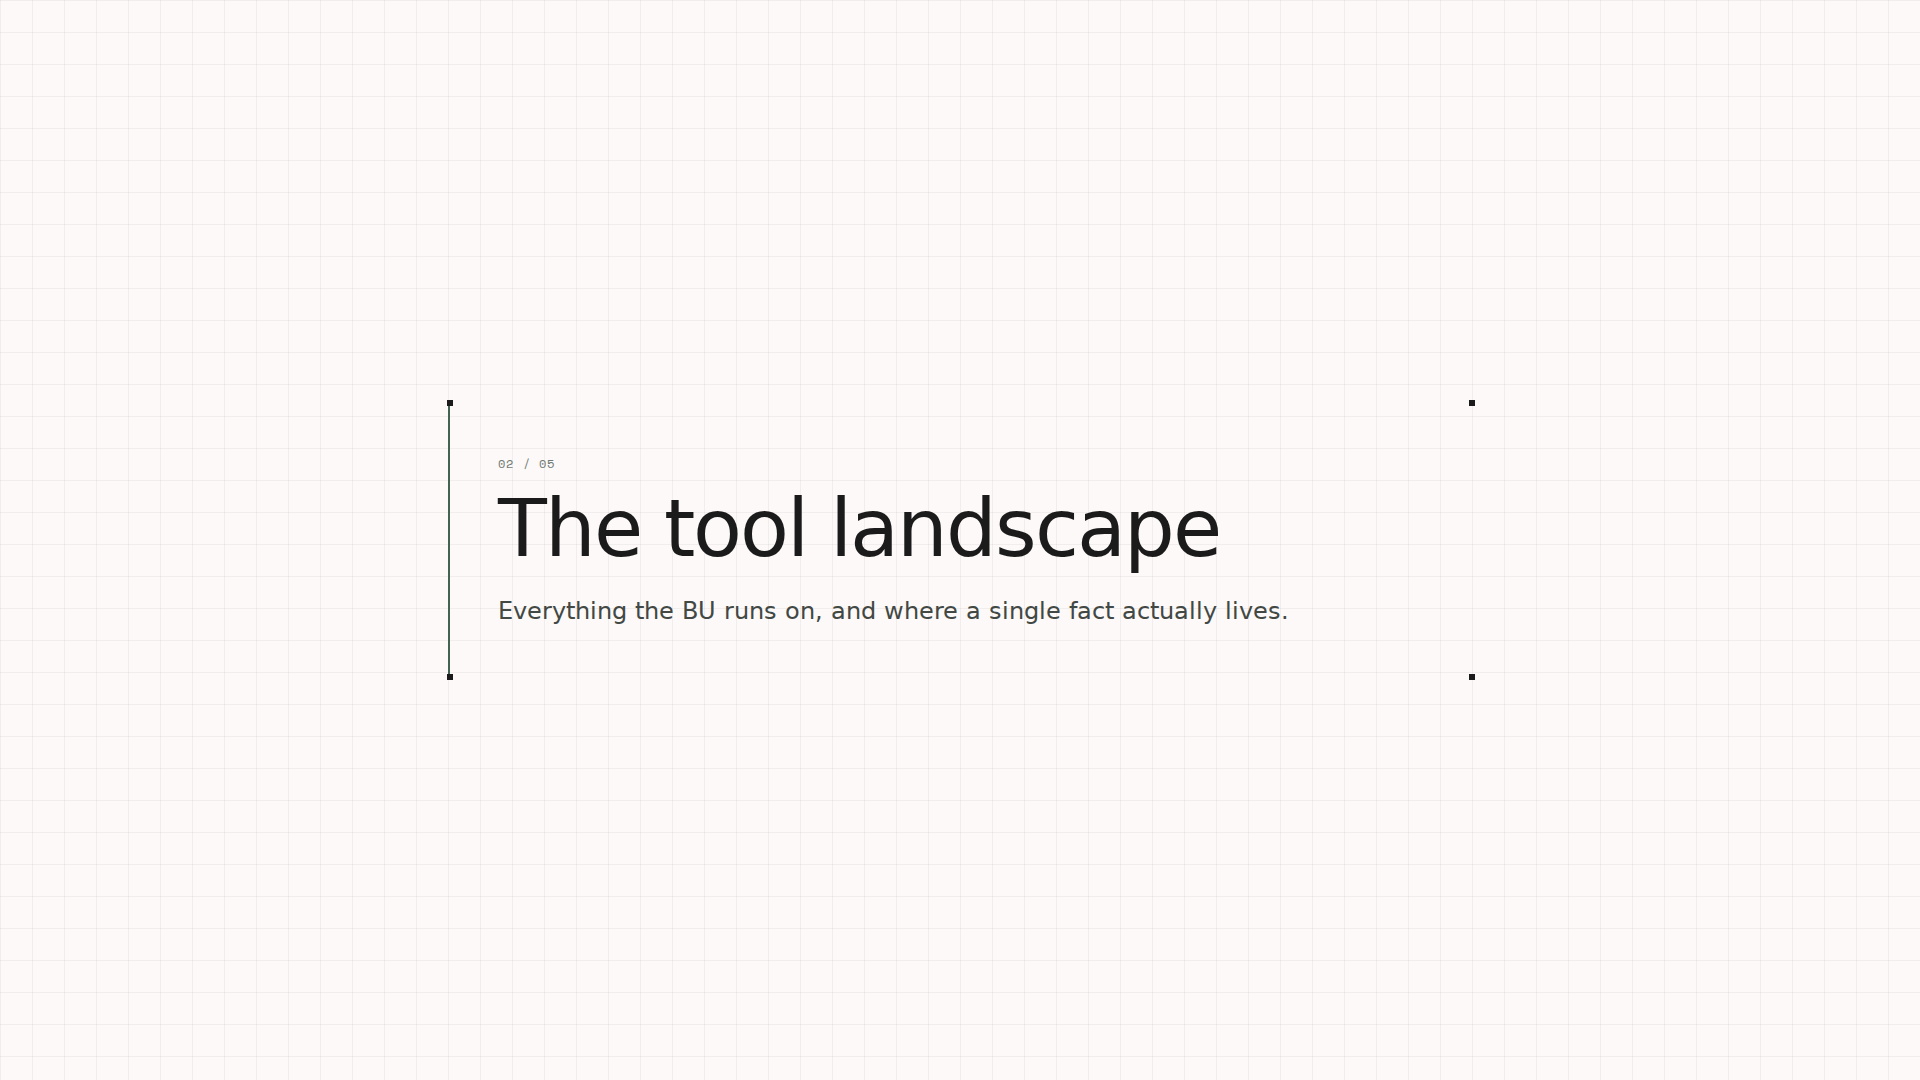
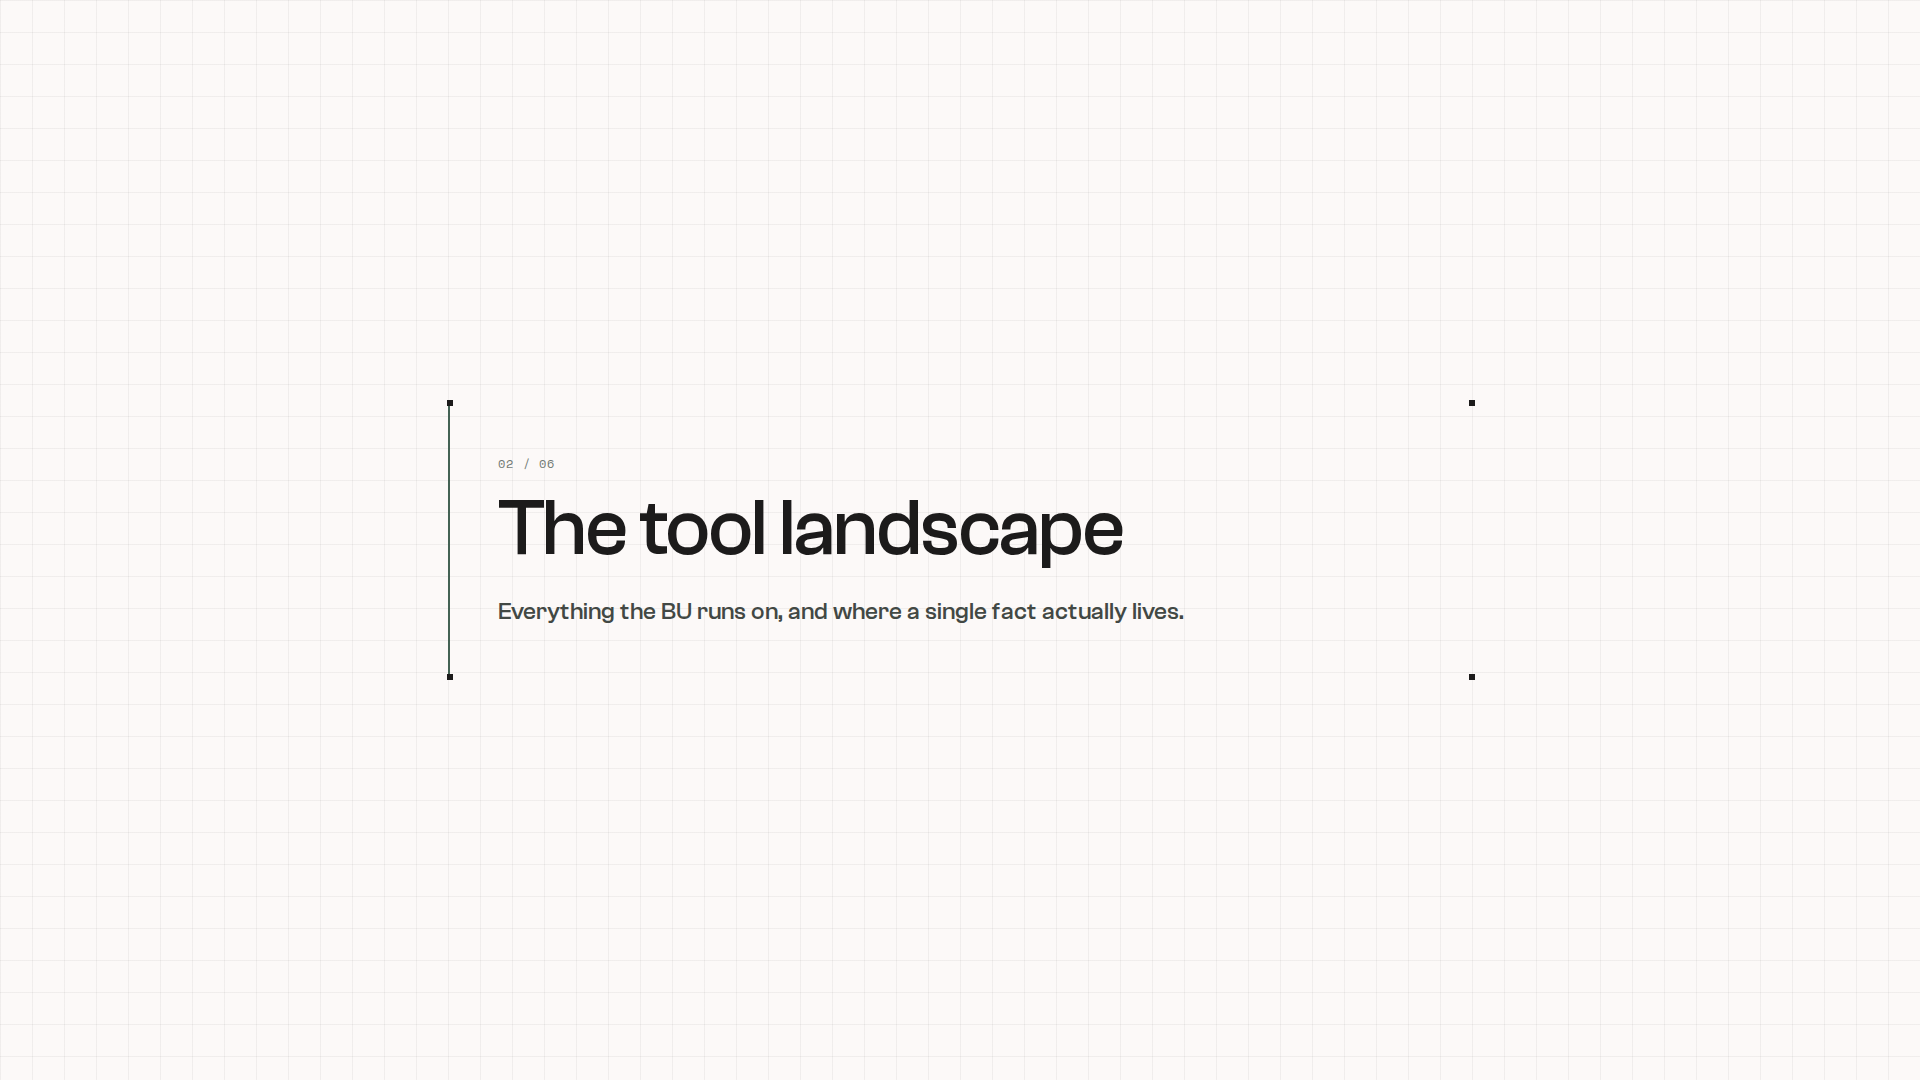
Argos deck: title on the investment slide, section counter to 06, plan divider, US thousands separators

Changed region(s): [[0.25, 0.4583, 0.6562, 0.5194], [0.25, 0.55, 0.6562, 0.5806]]

diff --git a/webpages/decks/2026-08-03_argos-phase2_k7m2q4/index.html b/webpages/decks/2026-08-03_argos-phase2_k7m2q4/index.html
@@ -132,7 +132,7 @@ body.show-all .nav-controls{display:none !important;}
 <!-- ============ 3 · DIVIDER ============ -->
 <section class="slide grid-bg items-center p-margin" data-slide="3">
   <div class="max-w-5xl w-full mx-auto relative sock border-l-2 border-primary pl-lg py-lg"><span class="s3"></span><span class="s4"></span>
-    <span class="font-eyebrow text-eyebrow text-outline tracking-widest uppercase">01 / 05</span>
+    <span class="font-eyebrow text-eyebrow text-outline tracking-widest uppercase">01 / 06</span>
     <h2 class="font-display-lg text-display-lg mt-sm tracking-tight">What we found</h2>
     <p class="font-title-sm text-title-sm text-on-surface-variant mt-md">Three hours of your team's honesty, and two walkthroughs of the systems underneath.</p>
   </div>
@@ -213,7 +213,7 @@ body.show-all .nav-controls{display:none !important;}
 <!-- ============ 6 · DIVIDER ============ -->
 <section class="slide grid-bg items-center p-margin" data-slide="6">
   <div class="max-w-5xl w-full mx-auto relative sock border-l-2 border-primary pl-lg py-lg"><span class="s3"></span><span class="s4"></span>
-    <span class="font-eyebrow text-eyebrow text-outline tracking-widest uppercase">02 / 05</span>
+    <span class="font-eyebrow text-eyebrow text-outline tracking-widest uppercase">02 / 06</span>
     <h2 class="font-display-lg text-display-lg mt-sm tracking-tight">The tool landscape</h2>
     <p class="font-title-sm text-title-sm text-on-surface-variant mt-md">Everything the BU runs on, and where a single fact actually lives.</p>
   </div>
@@ -337,7 +337,7 @@ body.show-all .nav-controls{display:none !important;}
 <!-- ============ 10 · DIVIDER ============ -->
 <section class="slide grid-bg items-center p-margin" data-slide="10">
   <div class="max-w-5xl w-full mx-auto relative sock border-l-2 border-primary pl-lg py-lg"><span class="s3"></span><span class="s4"></span>
-    <span class="font-eyebrow text-eyebrow text-outline tracking-widest uppercase">03 / 05</span>
+    <span class="font-eyebrow text-eyebrow text-outline tracking-widest uppercase">03 / 06</span>
     <h2 class="font-display-lg text-display-lg mt-sm tracking-tight">What I see</h2>
     <p class="font-title-sm text-title-sm text-on-surface-variant mt-md">The cause underneath the four findings, and where this goes.</p>
   </div>
@@ -392,7 +392,7 @@ body.show-all .nav-controls{display:none !important;}
 <!-- ============ 12 · DIVIDER ============ -->
 <section class="slide grid-bg items-center p-margin" data-slide="12">
   <div class="max-w-5xl w-full mx-auto relative sock border-l-2 border-primary pl-lg py-lg"><span class="s3"></span><span class="s4"></span>
-    <span class="font-eyebrow text-eyebrow text-outline tracking-widest uppercase">04 / 05</span>
+    <span class="font-eyebrow text-eyebrow text-outline tracking-widest uppercase">04 / 06</span>
     <h2 class="font-display-lg text-display-lg mt-sm tracking-tight">The system</h2>
     <p class="font-title-sm text-title-sm text-on-surface-variant mt-md">One orchestration layer on top of the systems you keep.</p>
   </div>
@@ -520,10 +520,19 @@ body.show-all .nav-controls{display:none !important;}
   </div>
 </section>
 
-<!-- ============ 16 · THE PLAN ============ -->
+<!-- ============ 16 · DIVIDER ============ -->
 <section class="slide grid-bg items-center p-margin" data-slide="16">
+  <div class="max-w-5xl w-full mx-auto relative sock border-l-2 border-primary pl-lg py-lg"><span class="s3"></span><span class="s4"></span>
+    <span class="font-eyebrow text-eyebrow text-outline tracking-widest uppercase">05 / 06</span>
+    <h2 class="font-display-lg text-display-lg mt-sm tracking-tight">The plan</h2>
+    <p class="font-title-sm text-title-sm text-on-surface-variant mt-md">Three sprints, the timeline, and what we need from you.</p>
+  </div>
+</section>
+
+<!-- ============ 17 · THE PLAN ============ -->
+<section class="slide grid-bg items-center p-margin" data-slide="17">
   <div class="max-w-6xl w-full mx-auto">
-    <span class="font-eyebrow text-eyebrow text-primary tracking-widest uppercase">05 / 05 · The plan</span>
+    <span class="font-eyebrow text-eyebrow text-primary tracking-widest uppercase">Three sprints</span>
     <h2 class="font-headline-md text-headline-md mt-sm mb-md">Three sprints, live on 2 October</h2>
     <div class="grid md:grid-cols-3 gap-gutter mb-md">
       <div class="relative sock border border-on-background/15 p-md bg-surface-container-lowest"><span class="s3"></span><span class="s4"></span>
@@ -563,8 +572,10 @@ body.show-all .nav-controls{display:none !important;}
 </section>
 
 <!-- ============ 17 · INVESTMENT ============ -->
-<section class="slide grid-bg items-center p-margin" data-slide="17">
+<section class="slide grid-bg items-center p-margin" data-slide="18">
   <div class="max-w-6xl w-full mx-auto">
+    <span class="font-eyebrow text-eyebrow text-outline tracking-widest uppercase">06 / 06</span>
+    <h2 class="font-headline-md text-headline-md mt-sm mb-md">The decision on the table today</h2>
     <div class="grid md:grid-cols-3 gap-gutter mb-md">
       <div class="border-l-2 border-primary pl-md"><p class="font-code-label text-code-label text-primary uppercase mb-xs">Deadlines held</p><p class="text-on-surface-variant">Every deliverable lands on the day agreed. If one will not, you hear it from me 48 hours before, not after.</p></div>
       <div class="border-l-2 border-primary pl-md"><p class="font-code-label text-code-label text-primary uppercase mb-xs">Transparency</p><p class="text-on-surface-variant">A weekly 30-minute checkpoint, a shared workspace updated live, and an answer within 24 hours.</p></div>
@@ -575,7 +586,7 @@ body.show-all .nav-controls{display:none !important;}
         <div class="md:col-span-5 border-r-0 md:border-r border-on-background/15 md:pr-md">
           <span class="font-eyebrow text-eyebrow text-primary tracking-widest uppercase">Phase 2 · fixed fee</span>
           <h2 class="font-headline-md text-headline-md mt-xs">Notion Orchestration Layer</h2>
-          <p class="font-display-lg text-display-lg text-primary leading-none my-sm">16 000 €</p>
+          <p class="font-display-lg text-display-lg text-primary leading-none my-sm">16,000 €</p>
           <p class="font-code-label text-code-label text-on-surface-variant uppercase">excl. VAT · 50% at kickoff, 50% at go-live</p>
           <p class="mt-sm">8 databases, the 12-phase lifecycle and the vendor funnel, 10 automations, the seven morning screens, the Meeting Agent, the fraud review queue, the SOP pack, two full days of training, and a 30-day adoption window under the guarantee.</p>
         </div>
@@ -585,9 +596,9 @@ body.show-all .nav-controls{display:none !important;}
             <div class="flex justify-between gap-md py-xs"><span>A · Vendor portal (check your XTRF licence first)</span><span class="font-code-label text-code-label text-on-surface-variant shrink-0">on quote</span></div>
             <div class="flex justify-between gap-md py-xs"><span>B · Client-facing progress portal</span><span class="font-code-label text-code-label text-on-surface-variant shrink-0">on quote</span></div>
             <div class="flex justify-between gap-md py-xs"><span>C · Agentic pack: lessons learned, vendor queries, fraud engine</span><span class="font-code-label text-code-label text-on-surface-variant shrink-0">on quote</span></div>
-            <div class="flex justify-between gap-md py-xs"><span>D · XTRF read-only sync, 3 to 4 days</span><span class="font-code-label text-code-label text-primary shrink-0">3 200 - 4 800 €</span></div>
+            <div class="flex justify-between gap-md py-xs"><span>D · XTRF read-only sync, 3 to 4 days</span><span class="font-code-label text-code-label text-primary shrink-0">3,200 - 4,800 €</span></div>
             <div class="flex justify-between gap-md py-xs"><span>E · Weekly vendor payment run</span><span class="font-code-label text-code-label text-on-surface-variant shrink-0">on quote</span></div>
-            <div class="flex justify-between gap-md py-xs"><span>Operate · ongoing run after the adoption window</span><span class="font-code-label text-code-label text-primary shrink-0">1 500 € / month</span></div>
+            <div class="flex justify-between gap-md py-xs"><span>Operate · ongoing run after the adoption window</span><span class="font-code-label text-code-label text-primary shrink-0">1,500 € / month</span></div>
           </div>
           <p class="font-code-label text-code-label text-outline uppercase mt-sm">Confidential · prepared for Argos Multilingual</p>
         </div>
@@ -597,7 +608,7 @@ body.show-all .nav-controls{display:none !important;}
 </section>
 
 <!-- ============ 18 · CLOSING ============ -->
-<section class="slide grid-bg items-center justify-center p-margin" data-slide="18">
+<section class="slide grid-bg items-center justify-center p-margin" data-slide="19">
   <div class="max-w-5xl w-full relative sock border border-on-background/15 bg-surface-container-lowest/80 p-xl"><span class="s3"></span><span class="s4"></span>
     <span class="font-eyebrow text-eyebrow text-primary tracking-widest uppercase">Thank you</span>
     <h2 class="font-display-lg text-display-lg mt-sm tracking-tight">One place where the<br/>work actually lives.</h2>
@@ -617,7 +628,7 @@ body.show-all .nav-controls{display:none !important;}
 
 <div class="nav-controls">
   <button class="nav-btn" id="prev" aria-label="Previous slide"><span class="material-symbols-outlined" style="font-size:18px">chevron_left</span></button>
-  <div class="counter"><span id="cur">1</span> / 18</div>
+  <div class="counter"><span id="cur">1</span> / 19</div>
   <button class="nav-btn" id="next" aria-label="Next slide"><span class="material-symbols-outlined" style="font-size:18px">chevron_right</span></button>
   <button class="nav-btn" id="grid" aria-label="Overview"><span class="material-symbols-outlined" style="font-size:18px">grid_view</span></button>
 </div>
@@ -626,7 +637,7 @@ body.show-all .nav-controls{display:none !important;}
 <script>
 if(location.search.indexOf('all=1')>-1){document.body.classList.add('show-all');}
 const slides=[...document.querySelectorAll('.slide')];
-const titles=["Cover","Contents","What we found","Phase 1 recap","The four findings","The tool landscape","The inventory","Write once, read everywhere","What it costs today","What I see","Root cause & target","The system","Target architecture","Your morning screen","Why this approach","The plan","Investment","Thank you"];
+const titles=["Cover","Contents","What we found","Phase 1 recap","The four findings","The tool landscape","The inventory","Write once, read everywhere","What it costs today","What I see","Root cause & target","The system","Target architecture","Your morning screen","Why this approach","The plan","Three sprints","Investment","Thank you"];
 let i=0;
 function show(n){i=Math.max(0,Math.min(slides.length-1,n));slides.forEach((s,k)=>s.classList.toggle('is-active',k===i));document.getElementById('cur').textContent=i+1;}
 document.getElementById('next').onclick=()=>show(i+1);
